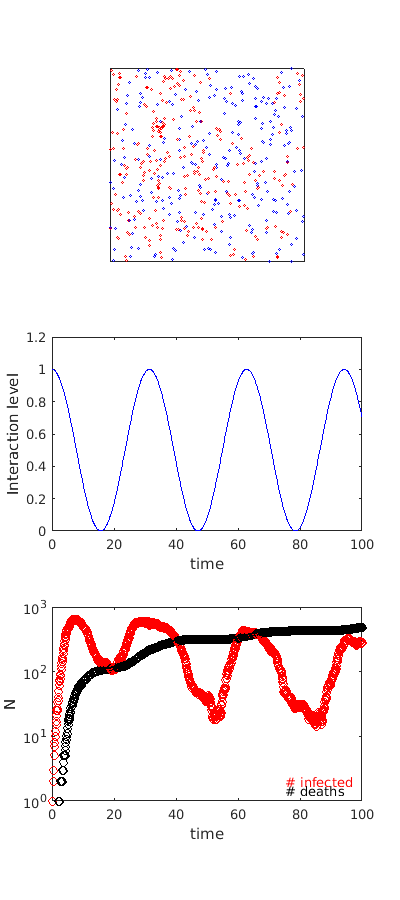
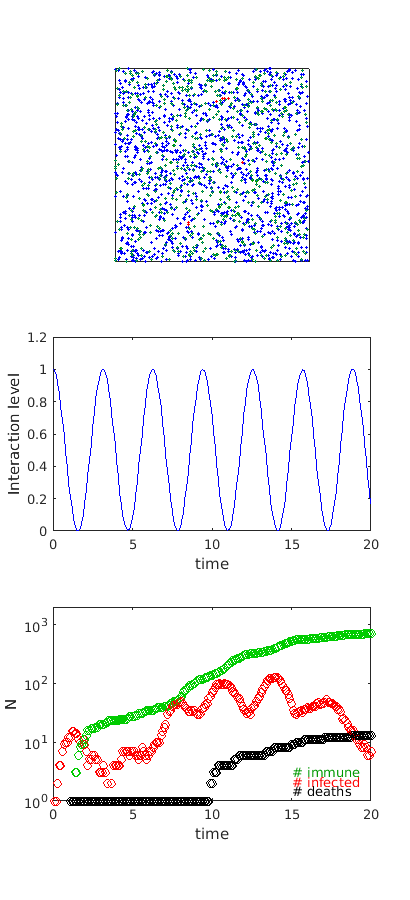
added immunity

diff --git a/coronavirusToySimulation.m b/coronavirusToySimulation.m
@@ -9,7 +9,7 @@ clc
 
 % Free to use -- please give credit!
 
-% Simulates a population of interacting particles that can get infected/die
+% Simulates a population of interacting particles
 % Parameters:
 % N = population size in the box (the box size is fixed at 1)
 % p_inf         = probability of infection upon contact per unit time interval
@@ -18,25 +18,24 @@ clc
 % p_death       = probability of death during infection period
 % isolation_fun = isolation function of time (= 1 means regular interaction level; = 0 means no interaction)
 
-Tfinal = 100; % end of simulation
-
 % To Try: try out the effect of the different isolation functions!
 % uncomment the isolation functions you would like to use!
 
 %isolation_fun = @(t) ones(size(t)); % constant function
-%isolation_fun = @(t) exp(-0.05*t); % social distancing
-isolation_fun = @(t) (cos(0.2*t)+1)/2; % sinusoidal distancing
+%isolation_fun = @(t) exp(-0.1*t); % social distancing
+isolation_fun = @(t) (cos(2*t)+1)/2; % sinusoidal distancing
 
 
 %% Parameters
-N = 1e3;
-p_inf = 10;
-r_inf = 0.015;
+N = 2e3;
+p_inf = 1;
+r_inf = 0.02;
 t_inf = 1;
 p_death = 0.02;
 
 t = 0;
 dt = 0.1;
+Tfinal = 20; % end of simulation
 
 
 
@@ -54,6 +53,8 @@ infected = false(size(x));
 infected_t_counter = zeros(size(x));
 infected(1) = true;
 
+immune = false(size(x));
+
 
 %% Simulation
 fh = figure('position',[0 0 400 900]);
@@ -68,7 +69,8 @@ while t < Tfinal
     %% compute infections
     
     num_inf_contacts = contactMtx * double(infected);
-    infected(~infected) = num_inf_contacts(~infected) & (rand(size(infected(~infected))) < p_inf * dt * num_inf_contacts(~infected));
+    cut = (~infected & ~immune);
+    infected(cut) = num_inf_contacts(cut) & (rand(size(infected(cut))) < p_inf * dt * num_inf_contacts(cut));
     
     
     %% move particles (applying the isolation function)
@@ -81,7 +83,7 @@ while t < Tfinal
     recovered = infected_t_counter > t_inf;
     infected(recovered) = false;
     infected_t_counter(recovered) = 0;
-    
+    immune(recovered) = true;
     
     %% apply death / remove particles
     death = infected & (rand(size(infected)) < p_death * dt/t_inf);
@@ -92,6 +94,7 @@ while t < Tfinal
     vy = vy(~death);
     infected = infected(~death);
     infected_t_counter = infected_t_counter(~death);
+    immune = immune(~death);
     
     
     %% advance time
@@ -100,9 +103,10 @@ while t < Tfinal
     
     %% plot
     subplot(3,1,1)
-    plot(x(~infected),y(~infected),'o','color',[0 0 1],'markersize',1)
+    plot(x(~infected),y(~infected),'o','color',[0 0 1],'markerfacecolor',[0 0 1],'markersize',1)
     hold on
-    plot(x(infected),y(infected),'o','color',[1 0 0],'markersize',1)
+    plot(x(immune),y(immune),'o','color',[0 0.6 0],'markerfacecolor',[0 0.4 1],'markersize',1)
+    plot(x(infected & ~immune),y(infected & ~immune),'o','color',[1 0 0],'markerfacecolor',[1 0 0],'markersize',1)
     hold off
     axis([0 1 0 1])
     axis square
@@ -118,8 +122,10 @@ while t < Tfinal
     subplot(3,1,3)
     semilogy(t,sum(infected),'ro') % number infected
     hold on
+    semilogy(t,sum(immune),'o','color',[0 0.8 0]) % number immmune
     semilogy(t,N-numel(x),'ko') % deaths
     if t == dt
+        text(0.75*Tfinal,10.^((log10(N))*0.15),'# immune','color',[0 0.6 0]);
         text(0.75*Tfinal,10.^((log10(N))*0.1),'# infected','color','r');
         text(0.75*Tfinal,10.^((log10(N))*0.05),'# deaths');
         xlabel('time');
